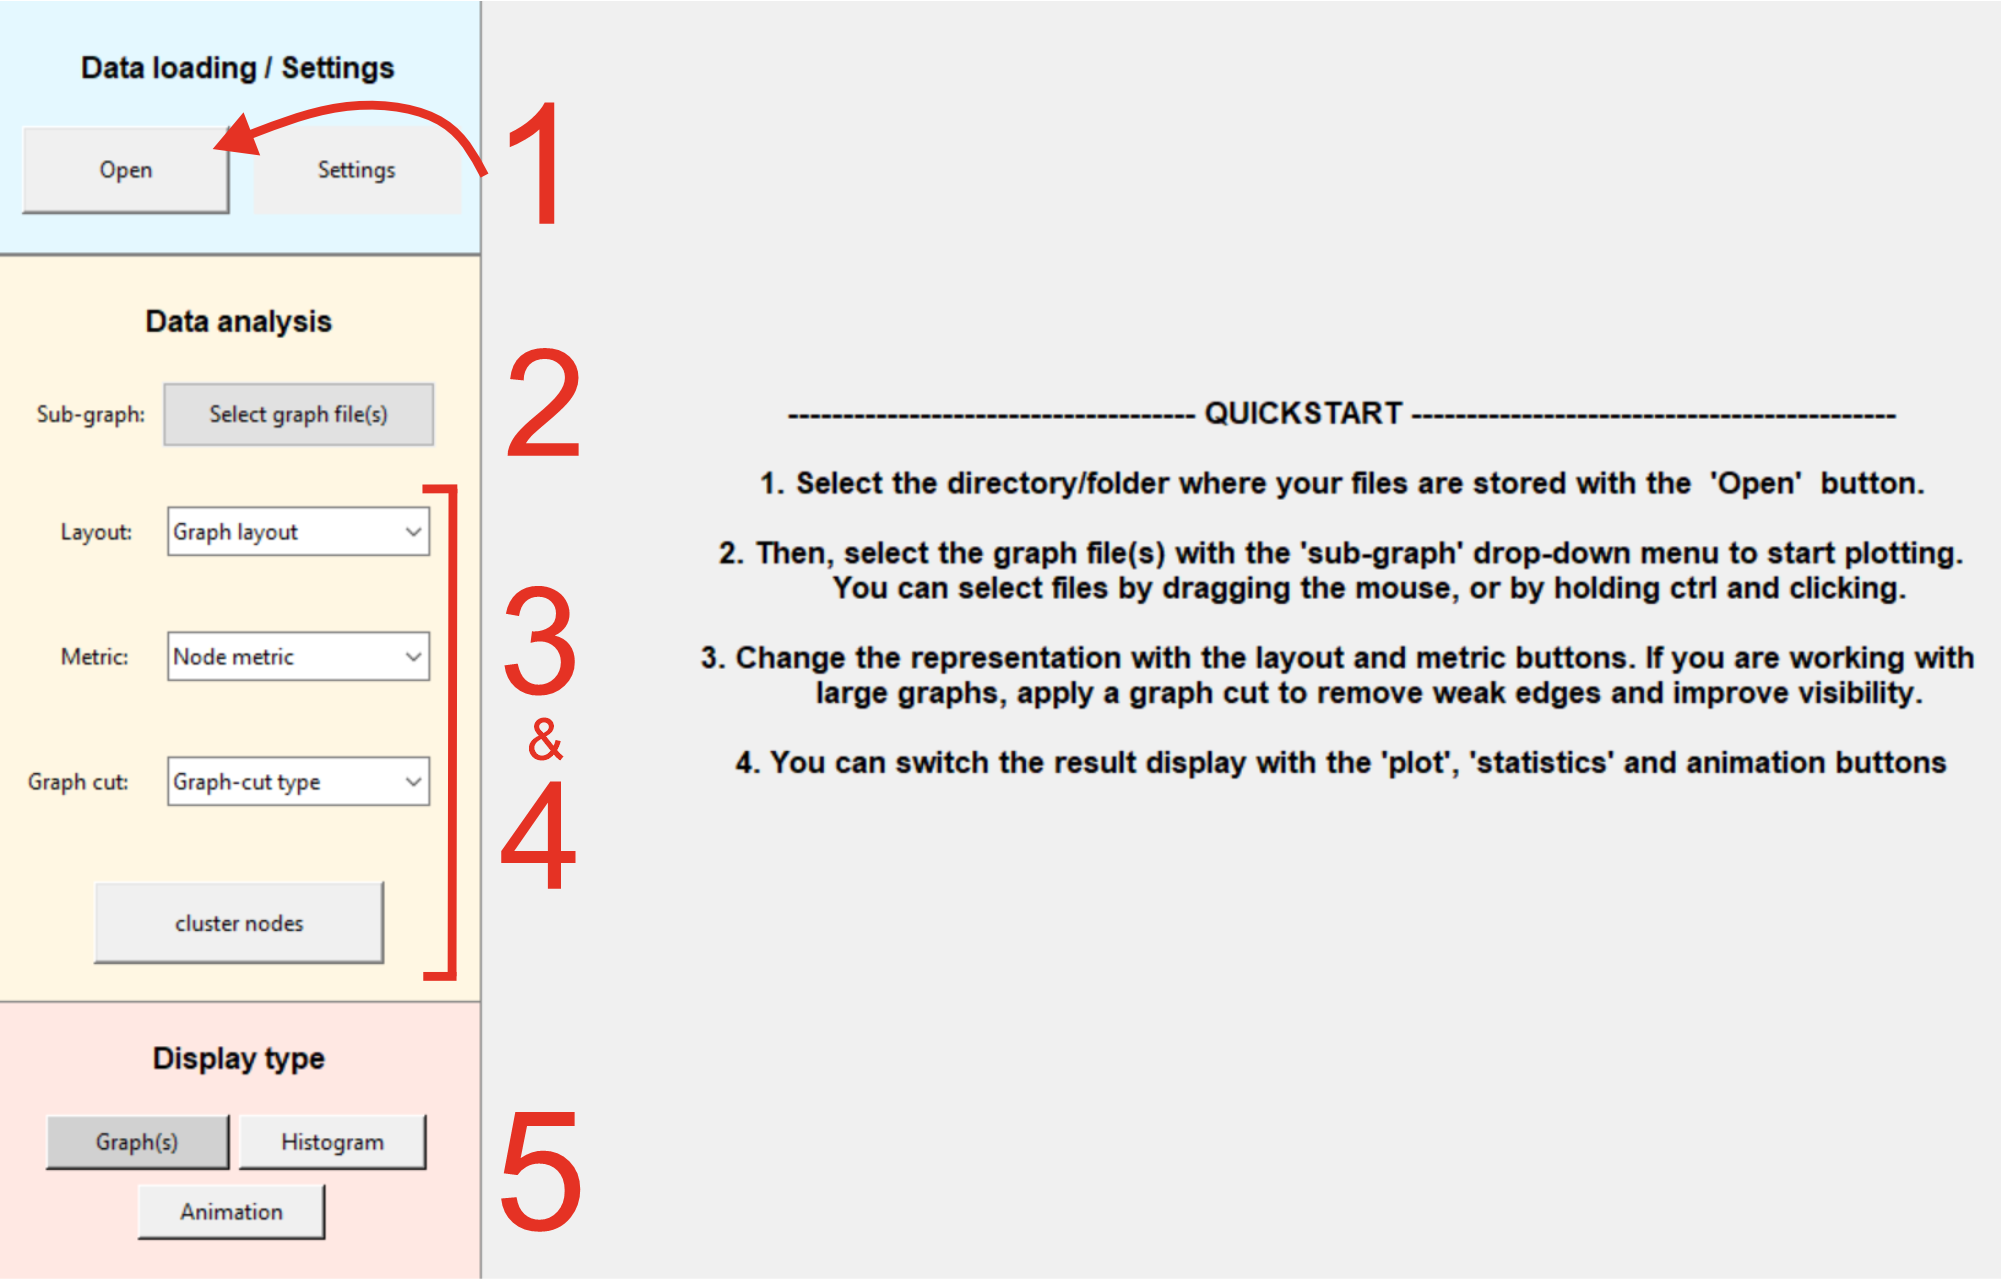
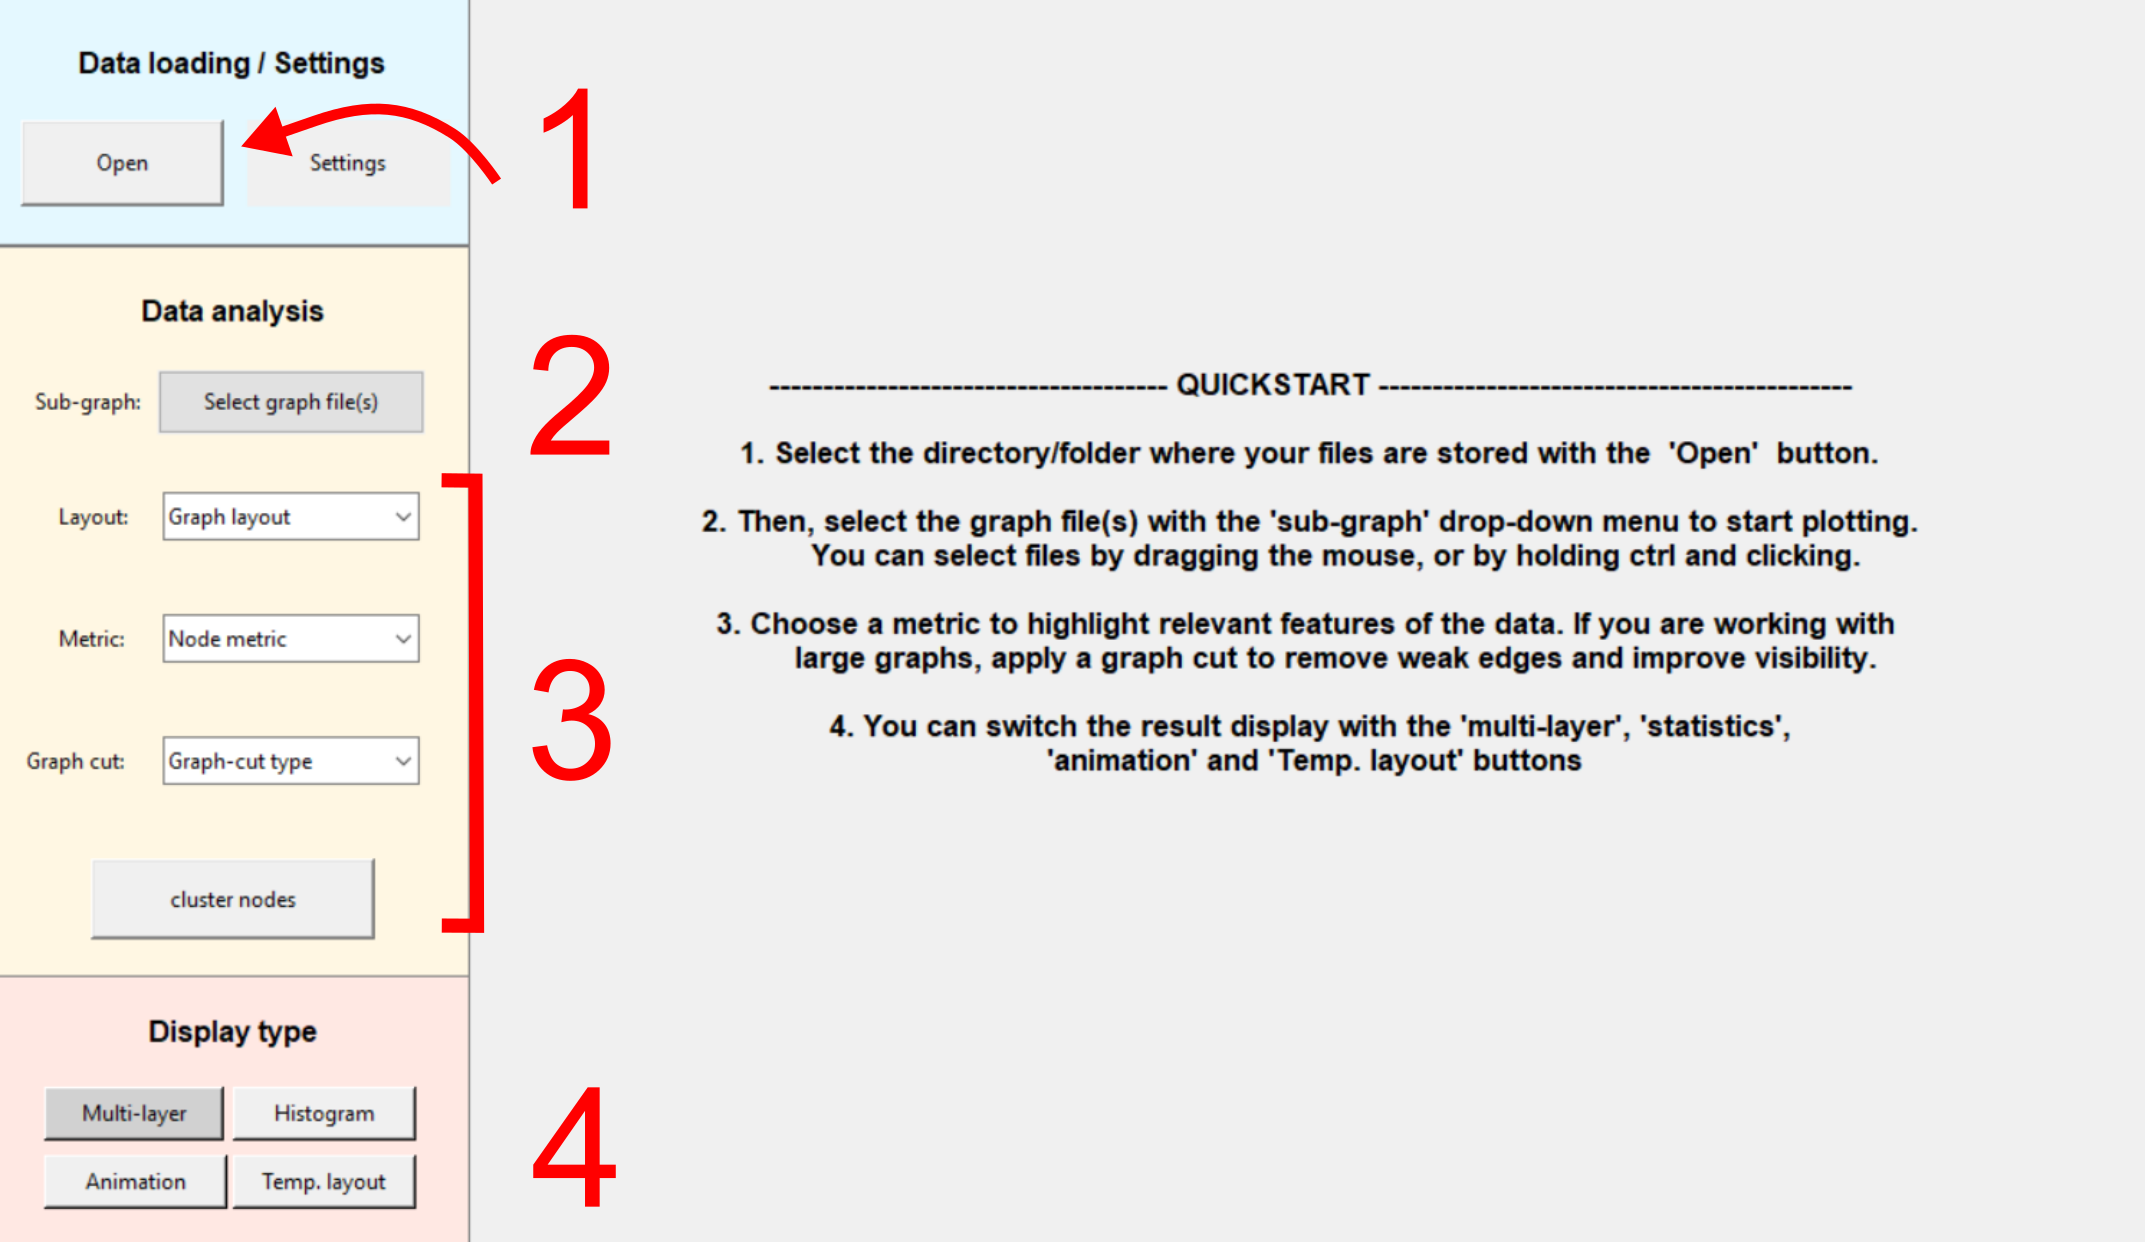
update

Changed region(s): [[0.0, 0.0, 0.9915, 1.0], [0.062, 0.2448, 0.1859, 0.2754], [0.031, 0.3977, 0.1549, 0.4283]]

diff --git a/index.html b/index.html
@@ -56,6 +56,8 @@
     </li>
     <li class="toctree-l3"><a class="reference internal" href="#graph-animation">Graph animation</a>
     </li>
+    <li class="toctree-l3"><a class="reference internal" href="#temporal-layout">Temporal Layout</a>
+    </li>
         </ul>
     </li>
     <li class="toctree-l2"><a class="reference internal" href="#example-on-real-data">Example on real data</a>
@@ -108,25 +110,45 @@
 <p>Your data should be stored in a single folder, as <strong>.csv files</strong>. Each .csv file representing a graph at a given time point of the analysis.
 Run <code>python -m tempnetviz.main_gui</code>. Then:</p>
 <ol>
-<li>Click <strong>Open</strong> to select the folder containing your <code>.csv</code> graph files.  </li>
-<li>Use the <strong>Sub-graph selector</strong> to choose one or multiple graph layers to visualize/analyse.  </li>
-<li>Adjust the <strong>layout</strong> and <strong>metrics</strong> to explore structural properties.  </li>
-<li>Optionally apply a <strong>graph cut</strong> for better readability on large graphs.  </li>
-<li>Switch between <strong>Graph</strong>, <strong>Histogram</strong>, and <strong>Animation</strong> views for different insights.</li>
+<li>Click <strong>Open</strong> in the GUI to select the folder containing your <code>.csv</code> files.</li>
+<li>Use the <strong>Sub-graph selector</strong> to choose one or multiple layers to visualize or analyze.</li>
+<li>Adjust the <strong>metrics</strong> to explore structural properties of your data.
+   You can apply a <strong>graph cut</strong> (edge pruning) for better readability on large graphs.</li>
+<li>Switch between <strong>Graph</strong>, <strong>Histogram</strong>, and <strong>Animation</strong> views to gain different insights.</li>
 </ol>
+<p>You can apply aesthetic changes (e.g. edge/nodes widths, colors...) to the results via the <a href="settings/">Settings</a> button.</p>
 <p><img alt="image info" src="quickstart_numbered.png" /></p>
 <hr />
 <h2 id="main-functionalities">Main Functionalities</h2>
 <h3 id="structure-visualization">Structure visualization</h3>
 <p>Once you have selected the input files to be visualized, the default view will be a 3D stack that lets you see how connections evolve as a function of time.
 You can also compute various <a href="metrics/">metrics</a> that quantify the importance of the nodes in the graph. More important nodes will be displayed larger as others.
-<img alt="graph structure" src="3D_stack.png" /></p>
+In this example, a colormap was also applied via the <a href="settings/">settings</a> to make the results more explicit.
+<img alt="graph structure" src="https://github.com/KelschLAB/TemporalGraphViz/raw/main/3D_view.png" /></p>
 <h3 id="metrics-distribution">Metrics distribution</h3>
-<p><img alt="time_histogram" src="hist_evolution.png" /></p>
+<p>Visualize how metrics evolve over time using histograms. By default, the different time steps are stacked on top of each other for easier comparison.
+In this example, deep blue corresponds to early times and deep red to the last datapoints. You can also plot each time step side by side by changing the corresponding
+option in the <a href="settings/">settings</a>.</p>
+<p><img alt="time_histogram" src="https://github.com/KelschLAB/TemporalGraphViz/raw/main/histo_view.png" /></p>
 <h3 id="graph-animation">Graph animation</h3>
 <p><img alt="Animation of temporal graph" src="graph_animation.gif" /></p>
+<h3 id="temporal-layout">Temporal Layout</h3>
+<p>You can also display the results as a temporal layout. At each timestep, this representation orders the nodes on the y axis to reduce edge-overlap.
+In this example, the color and thickness of node a shows its strength value. 
+<img alt="Example of temporal layout" src="https://github.com/KelschLAB/TemporalGraphViz/raw/main/temporal_layout.png" /></p>
 <hr />
 <h2 id="example-on-real-data">Example on real data</h2>
+<p>Let us now apply TempNetViz to real data. Here we will reproduce the results of the article <a href="https://www.biorxiv.org/content/10.1101/2025.08.26.672298v1.abstract">Stable clique membership in mouse societies requires oxytocin-enabled social sensory states</a>.
+This study shows that in groups of mice living in semi-naturalistic environments, highly social and stable cliques tend to emerge (so called rich-club). The data needed to reproduce this example can be found <a href="https://github.com/KelschLAB/TempNetViz/tree/main/data/nosemaze/both_cohorts_3days/G1">here</a>.
+After loading the data, the corresponding multi-layer graph looks like this:</p>
+<p><img src="G1_loaded.png" alt="Graph Structure" width="50%"/></p>
+<p>We first apply a graph cut to prune some of the weakest edges. If we did not do this, the graph would be fully connected, which would mask any differences in connectivity.
+For that we use the "mutual nearest neighbors" option, as we care about reciprocal edges. We choose the value of 3. We now have a graph which is a bit easier to understand:</p>
+<p><img src="G1_cut.png" alt="Graph Structure" width="50%"/></p>
+<p>Finally, to visualize the particularly influencial nodes, we select the "rich-club" metric, and choose a degree of 3. That means that we retain only nodes with degree &gt;= 3.</p>
+<p><img src="G1_rc.png" alt="Graph Structure" width="50%"/></p>
+<p>We see that at each time step, some node come in an out of the rich-club, but some consistently stay in it over the whole experiment. In the article, the emergence of these stable rich-club was linked to the oxytocin pathways.
+Importantly, mice with impaired cortical oxytocin signaling were unable to enter such stable rich-clubs</p>
 <hr />
               
             </div>
@@ -176,5 +198,5 @@ You can also compute various <a href="metrics/">metrics</a> that quantify the im
 
 <!--
 MkDocs version : 1.6.1
-Build Date UTC : 2025-09-03 17:06:13.155100+00:00
+Build Date UTC : 2025-09-04 08:44:23.971836+00:00
 -->

diff --git a/site/index.html b/site/index.html
@@ -56,6 +56,8 @@
     </li>
     <li class="toctree-l3"><a class="reference internal" href="#graph-animation">Graph animation</a>
     </li>
+    <li class="toctree-l3"><a class="reference internal" href="#temporal-layout">Temporal Layout</a>
+    </li>
         </ul>
     </li>
     <li class="toctree-l2"><a class="reference internal" href="#example-on-real-data">Example on real data</a>
@@ -108,25 +110,45 @@
 <p>Your data should be stored in a single folder, as <strong>.csv files</strong>. Each .csv file representing a graph at a given time point of the analysis.
 Run <code>python -m tempnetviz.main_gui</code>. Then:</p>
 <ol>
-<li>Click <strong>Open</strong> to select the folder containing your <code>.csv</code> graph files.  </li>
-<li>Use the <strong>Sub-graph selector</strong> to choose one or multiple graph layers to visualize/analyse.  </li>
-<li>Adjust the <strong>layout</strong> and <strong>metrics</strong> to explore structural properties.  </li>
-<li>Optionally apply a <strong>graph cut</strong> for better readability on large graphs.  </li>
-<li>Switch between <strong>Graph</strong>, <strong>Histogram</strong>, and <strong>Animation</strong> views for different insights.</li>
+<li>Click <strong>Open</strong> in the GUI to select the folder containing your <code>.csv</code> files.</li>
+<li>Use the <strong>Sub-graph selector</strong> to choose one or multiple layers to visualize or analyze.</li>
+<li>Adjust the <strong>metrics</strong> to explore structural properties of your data.
+   You can apply a <strong>graph cut</strong> (edge pruning) for better readability on large graphs.</li>
+<li>Switch between <strong>Graph</strong>, <strong>Histogram</strong>, and <strong>Animation</strong> views to gain different insights.</li>
 </ol>
+<p>You can apply aesthetic changes (e.g. edge/nodes widths, colors...) to the results via the <a href="settings/">Settings</a> button.</p>
 <p><img alt="image info" src="quickstart_numbered.png" /></p>
 <hr />
 <h2 id="main-functionalities">Main Functionalities</h2>
 <h3 id="structure-visualization">Structure visualization</h3>
 <p>Once you have selected the input files to be visualized, the default view will be a 3D stack that lets you see how connections evolve as a function of time.
 You can also compute various <a href="metrics/">metrics</a> that quantify the importance of the nodes in the graph. More important nodes will be displayed larger as others.
-<img alt="graph structure" src="3D_stack.png" /></p>
+In this example, a colormap was also applied via the <a href="settings/">settings</a> to make the results more explicit.
+<img alt="graph structure" src="https://github.com/KelschLAB/TemporalGraphViz/raw/main/3D_view.png" /></p>
 <h3 id="metrics-distribution">Metrics distribution</h3>
-<p><img alt="time_histogram" src="hist_evolution.png" /></p>
+<p>Visualize how metrics evolve over time using histograms. By default, the different time steps are stacked on top of each other for easier comparison.
+In this example, deep blue corresponds to early times and deep red to the last datapoints. You can also plot each time step side by side by changing the corresponding
+option in the <a href="settings/">settings</a>.</p>
+<p><img alt="time_histogram" src="https://github.com/KelschLAB/TemporalGraphViz/raw/main/histo_view.png" /></p>
 <h3 id="graph-animation">Graph animation</h3>
 <p><img alt="Animation of temporal graph" src="graph_animation.gif" /></p>
+<h3 id="temporal-layout">Temporal Layout</h3>
+<p>You can also display the results as a temporal layout. At each timestep, this representation orders the nodes on the y axis to reduce edge-overlap.
+In this example, the color and thickness of node a shows its strength value. 
+<img alt="Example of temporal layout" src="https://github.com/KelschLAB/TemporalGraphViz/raw/main/temporal_layout.png" /></p>
 <hr />
 <h2 id="example-on-real-data">Example on real data</h2>
+<p>Let us now apply TempNetViz to real data. Here we will reproduce the results of the article <a href="https://www.biorxiv.org/content/10.1101/2025.08.26.672298v1.abstract">Stable clique membership in mouse societies requires oxytocin-enabled social sensory states</a>.
+This study shows that in groups of mice living in semi-naturalistic environments, highly social and stable cliques tend to emerge (so called rich-club). The data needed to reproduce this example can be found <a href="https://github.com/KelschLAB/TempNetViz/tree/main/data/nosemaze/both_cohorts_3days/G1">here</a>.
+After loading the data, the corresponding multi-layer graph looks like this:</p>
+<p><img src="G1_loaded.png" alt="Graph Structure" width="50%"/></p>
+<p>We first apply a graph cut to prune some of the weakest edges. If we did not do this, the graph would be fully connected, which would mask any differences in connectivity.
+For that we use the "mutual nearest neighbors" option, as we care about reciprocal edges. We choose the value of 3. We now have a graph which is a bit easier to understand:</p>
+<p><img src="G1_cut.png" alt="Graph Structure" width="50%"/></p>
+<p>Finally, to visualize the particularly influencial nodes, we select the "rich-club" metric, and choose a degree of 3. That means that we retain only nodes with degree &gt;= 3.</p>
+<p><img src="G1_rc.png" alt="Graph Structure" width="50%"/></p>
+<p>We see that at each time step, some node come in an out of the rich-club, but some consistently stay in it over the whole experiment. In the article, the emergence of these stable rich-club was linked to the oxytocin pathways.
+Importantly, mice with impaired cortical oxytocin signaling were unable to enter such stable rich-clubs</p>
 <hr />
               
             </div>
@@ -176,5 +198,5 @@ You can also compute various <a href="metrics/">metrics</a> that quantify the im
 
 <!--
 MkDocs version : 1.6.1
-Build Date UTC : 2025-09-03 17:06:13.155100+00:00
+Build Date UTC : 2025-09-04 08:44:23.971836+00:00
 -->

diff --git a/docs/index.md b/docs/index.md
@@ -50,13 +50,27 @@ In this example, the color and thickness of node a shows its strength value.
 ![Example of temporal layout](https://github.com/KelschLAB/TemporalGraphViz/raw/main/temporal_layout.png)
 
 
-
-
-
-
 ---
 
 ## Example on real data
+Let us now apply TempNetViz to real data. Here we will reproduce the results of the article [Stable clique membership in mouse societies requires oxytocin-enabled social sensory states](https://www.biorxiv.org/content/10.1101/2025.08.26.672298v1.abstract).
+This study shows that in groups of mice living in semi-naturalistic environments, highly social and stable cliques tend to emerge (so called rich-club). The data needed to reproduce this example can be found [here](https://github.com/KelschLAB/TempNetViz/tree/main/data/nosemaze/both_cohorts_3days/G1).
+After loading the data, the corresponding multi-layer graph looks like this:
+
+![Graph Structure](G1_loaded.png)
+
+We first apply a graph cut to prune some of the weakest edges. If we did not do this, the graph would be fully connected, which would mask any differences in connectivity.
+For that we use the "mutual nearest neighbors" option, as we care about reciprocal edges. We choose the value of 3. We now have a graph which is a bit easier to understand:
+
+<img src="G1_cut.png" alt="Graph Structure" width="50%"/>
+
+Finally, to visualize the particularly influencial nodes, we select the "rich-club" metric, and choose a degree of 3. That means that we retain only nodes with degree >= 3.
+
+<img src="G1_rc.png" alt="Graph Structure" width="50%"/>
+
+We see that at each time step, some node come in an out of the rich-club, but some consistently stay in it over the whole experiment. In the article, the emergence of these stable rich-club was linked to the oxytocin pathways.
+Importantly, mice with impaired cortical oxytocin signaling were unable to enter such stable rich-clubs
+
 
 
 ---
